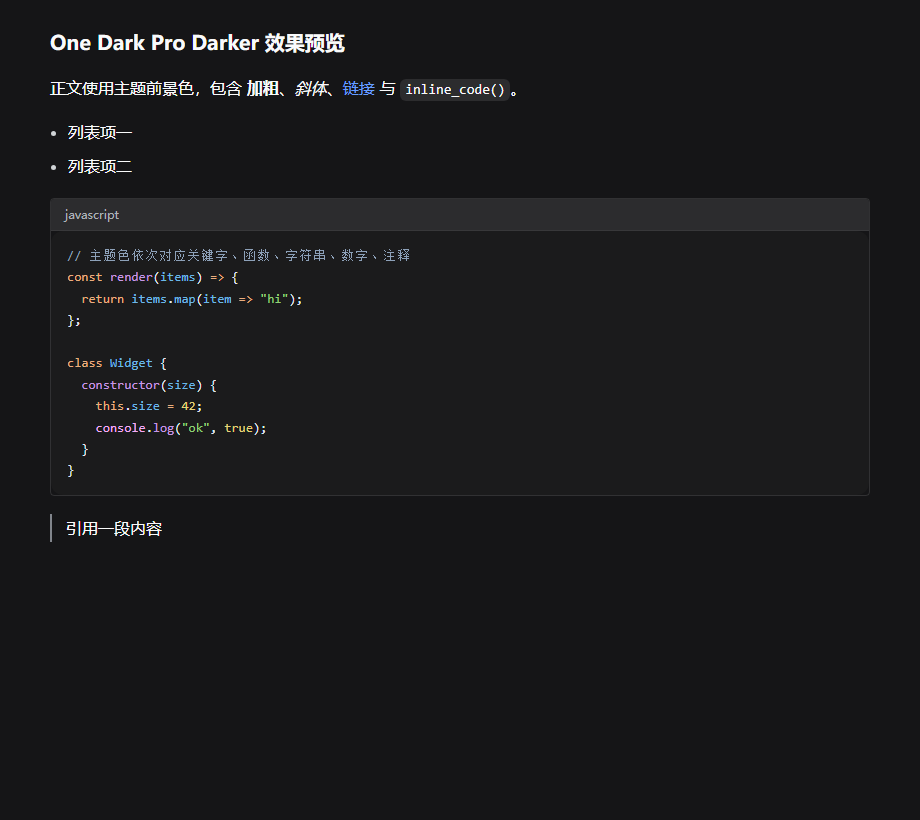
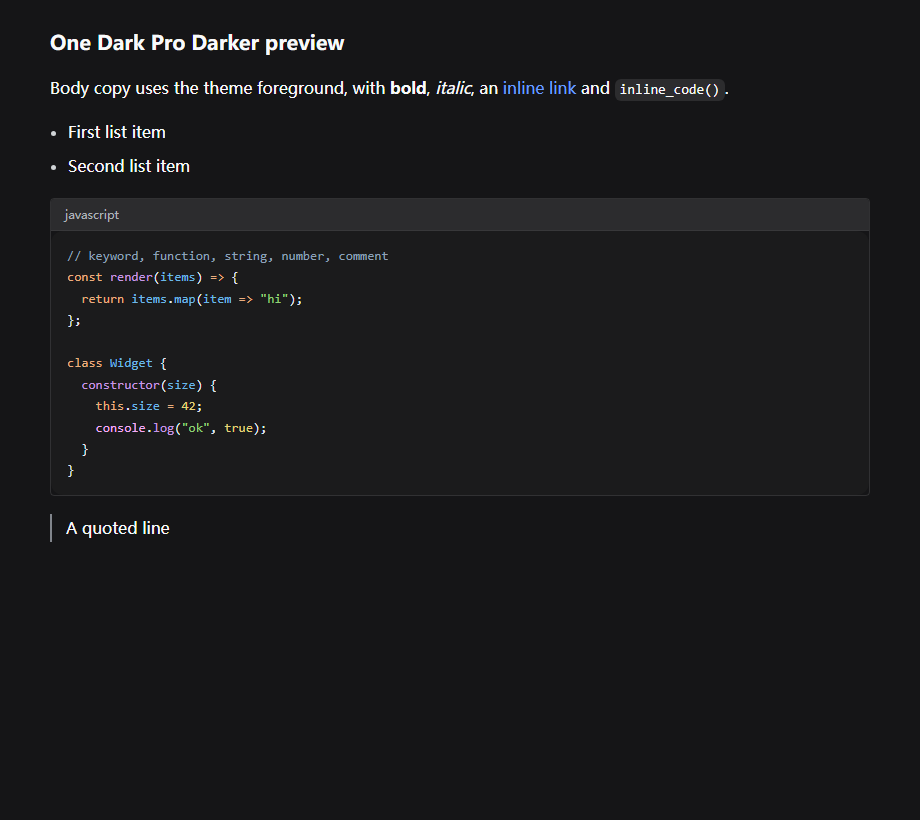
chore(scripts): drop local paths and switch fixtures to english

diff --git a/deepseek-chat/build/think-demo.html b/deepseek-chat/build/think-demo.html
@@ -28,18 +28,18 @@
 <div class="page">
 
   <div class="turn">
-    <div class="turn-label">答复与思考</div>
+    <div class="turn-label">answer and reasoning</div>
 
     <div class="ds-markdown">
-      <p>这是答复正文。它和下面的思考块在字号、行高、颜色上应该一眼能分开，读长回答时不需要重新找起点。</p>
-      <p>答复用正文色与常规行距，思考落在左侧竖线之内，颜色更低一档。</p>
+      <p>This is the answer body. It should read as clearly separate from the reasoning block below in size, leading and colour, so a long reply never loses its start.</p>
+      <p>The answer keeps body colour and normal leading; reasoning sits inside the left rule one step lower.</p>
     </div>
 
     <div class="think-head">
       <svg width="14" height="14" viewBox="0 0 16 16" fill="none" stroke="currentColor" stroke-width="1.4">
         <circle cx="8" cy="8" r="5.6"></circle><path d="M8 5.2v3.4l2.2 1.4"></path>
       </svg>
-      已深度思考（用时 18 秒）
+      Thought for 18 seconds
     </div>
 
     <div class="e1675d8b ds-think-content">
@@ -50,10 +50,10 @@
       </div>
       <div class="_9ecc93a"></div>
       <div class="ds-markdown">
-        <p>用户在问主题色值，先要判断他指的是哪一层：编辑器底、侧栏底还是强调色。</p>
-        <p>从版式看是暗色主题，侧栏比正文区更深，符合 One Dark Pro 的层级。</p>
-        <p>结论：先给色板，再按用途分组，比逐条念键名有用。</p>
-        <p><strong>补充：</strong>终端那套色比语法色饱和，不能直接搬到代码高亮上。</p>
+        <p>The ask is about a theme colour, so the first step is deciding which layer: editor, sidebar or accent.</p>
+        <p>The layout reads as a dark theme with a darker sidebar than the content area, which matches One Dark Pro.</p>
+        <p>Conclusion: hand over the palette grouped by use, which beats listing keys one by one.</p>
+        <p><strong>Note:</strong> the terminal hues are more saturated than the syntax ones and do not carry over to code highlighting.</p>
       </div>
     </div>
   </div>

diff --git a/deepseek-chat/build/demo.html b/deepseek-chat/build/demo.html
@@ -20,18 +20,18 @@
 <div class="demo">
   <div class="demo-meta">
     <div class="ds-markdown">
-      <h3>One Dark Pro Darker 效果预览</h3>
-      <p>正文使用主题前景色，包含 <strong>加粗</strong>、<em>斜体</em>、<a href="#">链接</a> 与 <code>inline_code()</code>。</p>
+      <h3>One Dark Pro Darker preview</h3>
+      <p>Body copy uses the theme foreground, with <strong>bold</strong>, <em>italic</em>, an <a href="#">inline link</a> and <code>inline_code()</code>.</p>
       <ul>
-        <li>列表项一</li>
-        <li>列表项二</li>
+        <li>First list item</li>
+        <li>Second list item</li>
       </ul>
     </div>
   </div>
 
   <div class="code-wrap">
     <div class="code-banner">javascript</div>
-<pre class="md-code-block md-code-block-dark"><code class="language-javascript"><span class="token comment">// 主题色依次对应关键字、函数、字符串、数字、注释</span>
+<pre class="md-code-block md-code-block-dark"><code class="language-javascript"><span class="token comment">// keyword, function, string, number, comment</span>
 <span class="token keyword">const</span> <span class="token function">render</span><span class="token punctuation">(</span><span class="token parameter">items</span><span class="token punctuation">)</span> <span class="token operator">=</span><span class="token operator">&gt;</span> <span class="token punctuation">{</span>
   <span class="token keyword">return</span> <span class="token variable">items</span><span class="token punctuation">.</span><span class="token property">map</span><span class="token punctuation">(</span><span class="token parameter">item</span> <span class="token operator">=&gt;</span> <span class="token string">"hi"</span><span class="token punctuation">)</span><span class="token punctuation">;</span>
 <span class="token punctuation">}</span><span class="token punctuation">;</span>
@@ -45,7 +45,7 @@
   </div>
 
   <div class="ds-markdown">
-    <blockquote><p>引用一段内容</p></blockquote>
+    <blockquote><p>A quoted line</p></blockquote>
   </div>
 </div>
 </body>

diff --git a/build/extract.py b/build/extract.py
@@ -11,8 +11,12 @@ import os
 from PIL import Image, ImageDraw, ImageFont
 
 OUT = os.path.abspath(os.path.join(os.path.dirname(__file__), ".."))
-EXT_ROOT = os.path.expandvars(r"%USERPROFILE%\.vscode\extensions")
-THEME_GLOB = os.path.join(EXT_ROOT, "zhuangtongfa.material-theme-*", "themes", "OneDark-Pro-darker.json")
+# The VSCode extension root is taken from the environment so the script does not
+# carry a local install path; VSCODE_EXTENSIONS overrides the usual location.
+EXT_ROOT = os.environ.get("VSCODE_EXTENSIONS") or os.path.expandvars(r"%USERPROFILE%\.vscode\extensions")
+THEME_GLOB = os.path.join(
+    EXT_ROOT, "zhuangtongfa.material-theme-*", "themes", "OneDark-Pro-darker.json"
+)
 THEME_PATH = sorted(glob.glob(THEME_GLOB))[-1]
 PKG_PATH = os.path.join(os.path.dirname(os.path.dirname(THEME_PATH)), "package.json")
 

diff --git a/deepseek-chat/README.md b/deepseek-chat/README.md
@@ -150,3 +150,10 @@ python build\gen.py
 ```powershell
 Invoke-WebRequest -Uri "https://fe-static.deepseek.com/chat/static/main.1e9681a4d3.css" -OutFile build\ds-main.css
 ```
+
+截图与探针脚本用CDP驱动本机的Chromium内核浏览器，浏览器路径不写死：先在`PATH`里找`msedge`、`chrome`、`chromium`，找不到就读`EDGE_PATH`环境变量。
+
+```powershell
+$env:EDGE_PATH = "<浏览器可执行文件路径>"
+node build\shot.mjs
+```
